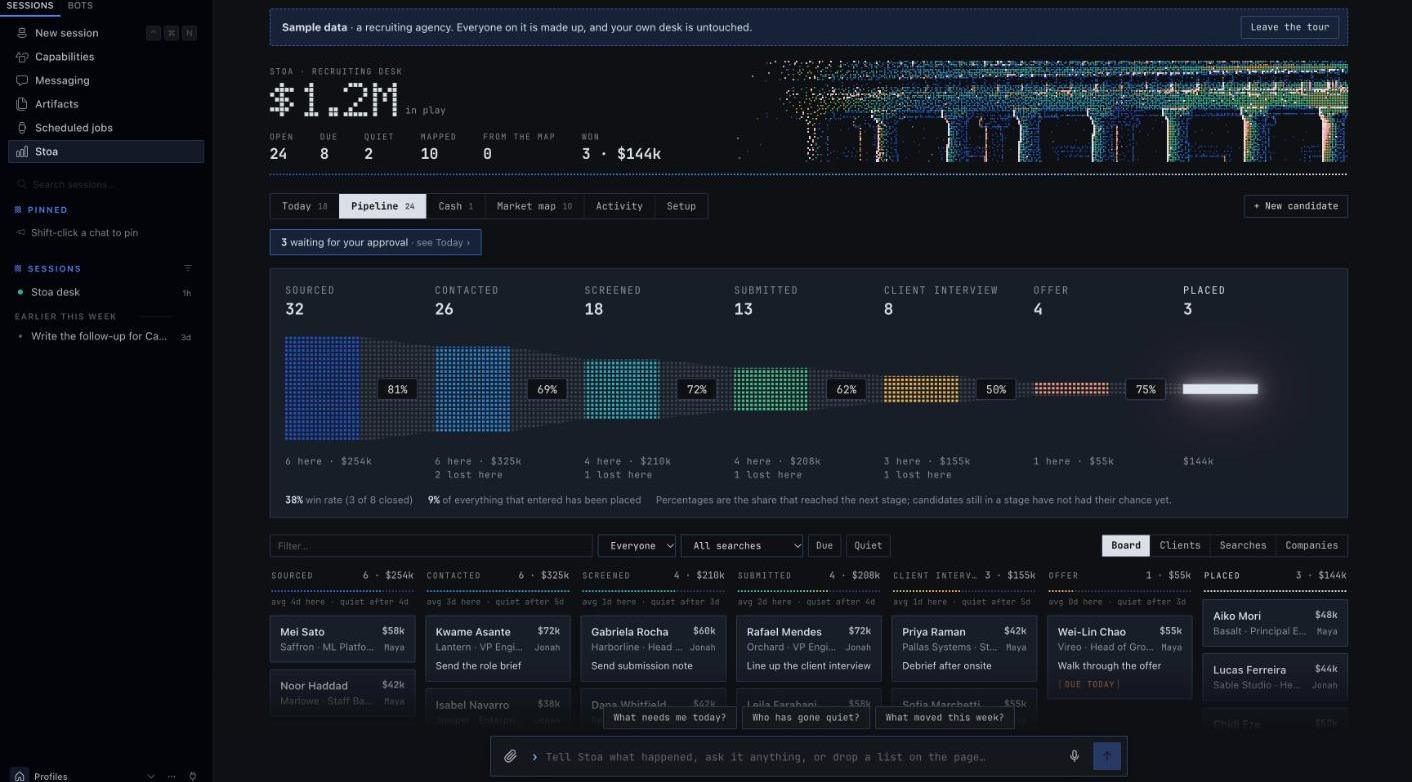
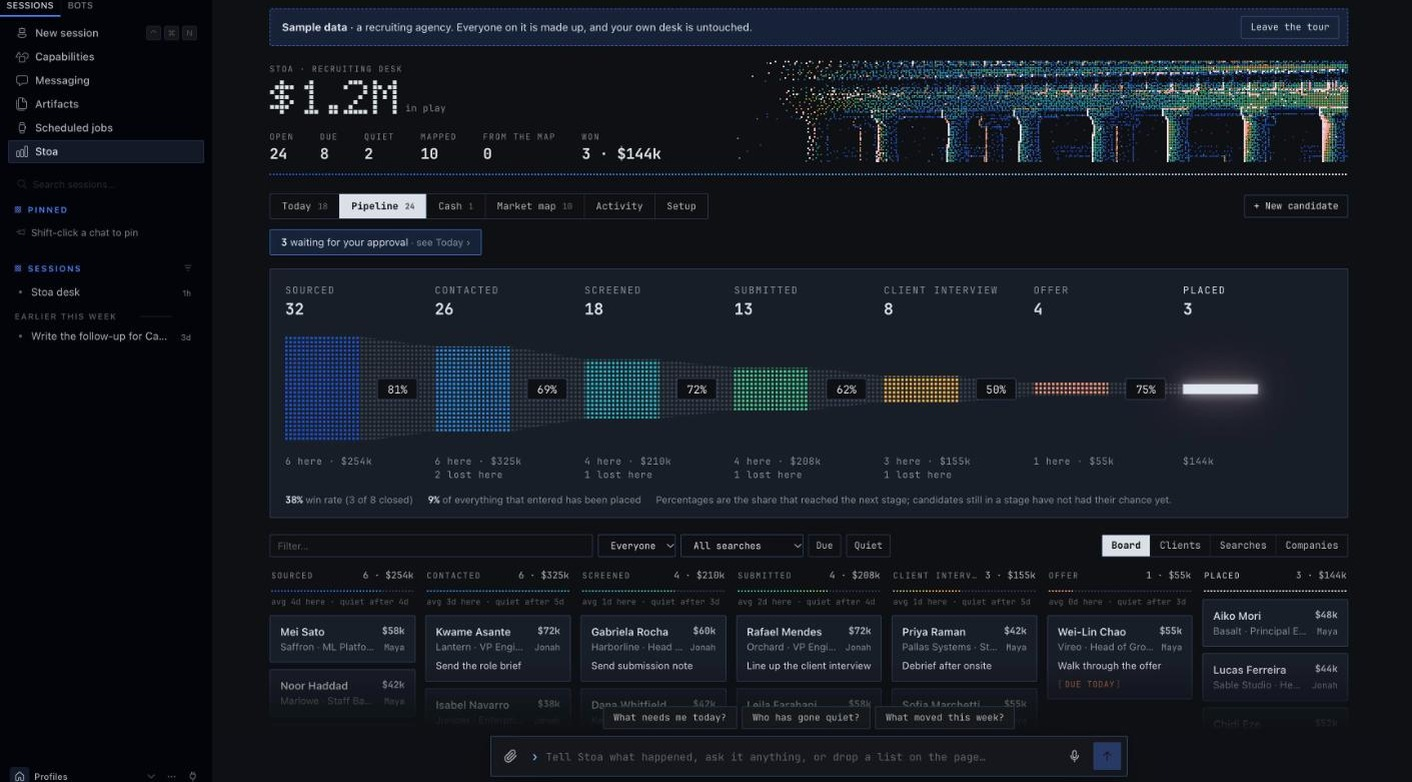
Stoa 0.20.2: the picture at the head of the page never runs under the figures
- The head of the page is two columns now. The figure and its counts take the room they need and
  the picture (the stoa, or your name in its place) has what is left, so it is cropped or made
  smaller instead of running under "Won". Before, at middling widths (the side panel open, or a
  smaller window) the stoa sat under the last figures; it was hard to see on a dark theme and
  plain on a light one.
- The screenshots in the guide and the reference are taken again in the new look: the welcome,
  the pane beside a conversation, a list waiting for review, adding a record by hand, a won
  record with its invoice, Setup, what a scheduled job may do, the software example and its
  market map.

diff --git a/desktop/plugin.js b/desktop/plugin.js
@@ -501,24 +501,22 @@ const CSS = `
 .stoa-hint:disabled { opacity: .5; cursor: default; }
 .stoa-dropnote { position: sticky; top: 0; z-index: 7; width: fit-content; margin: 0 auto 12px; padding: 8px 18px; border: 1px dashed var(--stoa-accent-line); border-radius: var(--stoa-r); background: var(--stoa-accent-soft); -webkit-backdrop-filter: blur(12px); backdrop-filter: blur(12px); font-size: 13px; }
 .stoa-page[data-drop="1"] { box-shadow: inset 0 0 0 2px var(--stoa-accent-line); }
-/* The head of the page: the figure and its counts on the left, the stoa itself drawn in dots on the right. */
-.stoa-head { position: relative; display: flex; flex-direction: column; justify-content: flex-end; gap: 14px; min-height: 124px; }
+/* The head of the page is two columns. The figure and its counts take the room they need; the picture (the stoa,
+   or your name in its place) has what is left, so it is cropped or made smaller and never runs under the figures.
+   Where too little is left, the picture goes: a name then sits above the figures instead. */
+.stoa-head { position: relative; display: grid; grid-template-columns: minmax(0, max-content) minmax(0, 1fr); gap: 14px 44px; align-items: end; min-height: 124px; }
 .stoa-head > * { position: relative; }
-.stoa-headart { position: absolute; top: 0; right: 0; bottom: 0; width: min(66%, 860px); pointer-events: none; -webkit-mask-image: linear-gradient(90deg, transparent, #000 24%); mask-image: linear-gradient(90deg, transparent, #000 24%); }
+.stoa-headmain { grid-column: 1; grid-row: 1; min-width: 0; }
+.stoa-headstats { grid-column: 1; grid-row: 2; }
+.stoa-headart { grid-column: 2; grid-row: 1 / span 2; align-self: stretch; min-width: 0; pointer-events: none; -webkit-mask-image: linear-gradient(90deg, transparent, #000 90px); mask-image: linear-gradient(90deg, transparent, #000 90px); }
+.stoa-headart > canvas { position: absolute; top: 0; left: 0; width: 100%; height: 100%; }
 .stoa-art { display: block; width: 100%; height: 100%; }
 .stoa-nameart { font-family: var(--stoa-mono); }
 .stoa-headname { height: 56px; width: min(100%, 700px); margin: 0 0 12px -3px; }
-/* A name in place of the stoa: the head becomes two columns. The figures take the room they need and the name
-   has what is left, so it can shrink but never runs into them. Where too little is left (a narrow window, the
-   side panel open) the name sits above the figures instead. */
-.stoa-head[data-sign="art"] { display: grid; grid-template-columns: max-content minmax(0, 1fr); gap: 14px 44px; align-items: end; }
-.stoa-head[data-sign="art"] > .stoa-headart { position: relative; grid-column: 2; grid-row: 1 / span 2; align-self: stretch; top: auto; right: auto; bottom: auto; width: auto; -webkit-mask-image: none; mask-image: none; }
-.stoa-head[data-sign="art"] > .stoa-headart > canvas { position: absolute; top: 4px; left: 0; width: 100%; height: calc(100% - 8px); }
-.stoa-head[data-sign="art"] > .stoa-headart + div { grid-column: 1; grid-row: 1; }
-.stoa-head[data-sign="art"] > .stoa-headstats { grid-column: 1; grid-row: 2; }
 .stoa-headname[data-narrow="1"] { display: none; }
+.stoa-head[data-sign="art"] > .stoa-headart { -webkit-mask-image: none; mask-image: none; }
+.stoa-head[data-sign="art"] > .stoa-headart > canvas { top: 4px; height: calc(100% - 8px); }
 @container (max-width: 980px) {
-  .stoa-head[data-sign="art"] { display: flex; align-items: stretch; }
   .stoa-head[data-sign="art"] > .stoa-headart { display: none; }
   .stoa-headname[data-narrow="1"] { display: block; }
 }
@@ -3611,7 +3609,7 @@ function Page() {
     h('div', { className: 'stoa-head', 'data-sign': welcome || !signed ? '' : sign.place === 'beside' ? 'beside' : 'art' },
       welcome ? null : h('div', { className: 'stoa-headart' },
         signed && sign.place !== 'beside' ? h(NameArt, { text: signed, side: 'right' }) : h(Art, { name: 'band' })),
-      h('div', null,
+      h('div', { className: 'stoa-headmain' },
         // Beside the stoa the name is always here. In place of the stoa it is here only when the page is too narrow for it there.
         signed && !welcome ? h('div', { className: 'stoa-headname', 'data-narrow': sign.place === 'beside' ? '0' : '1' }, h(NameArt, { text: signed, side: 'left' })) : null,
         h('div', { className: 'stoa-eyebrow' }, welcome ? 'Stoa' : 'Stoa · ' + pb.title),
